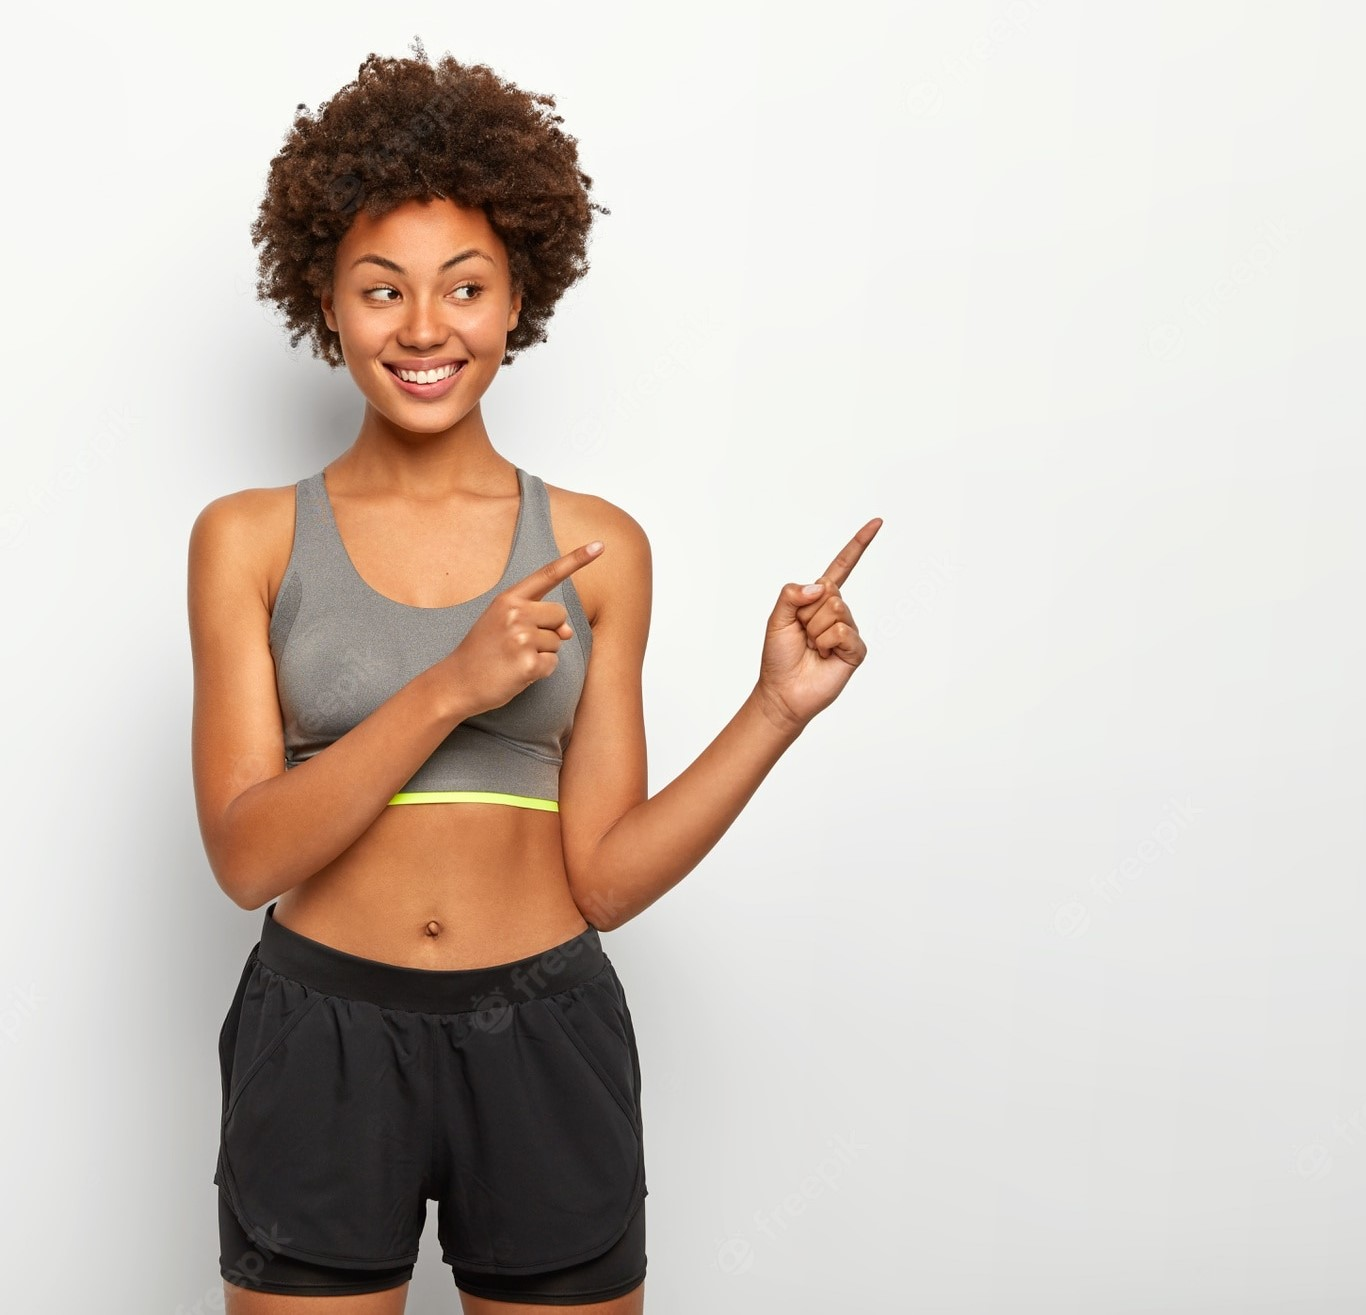
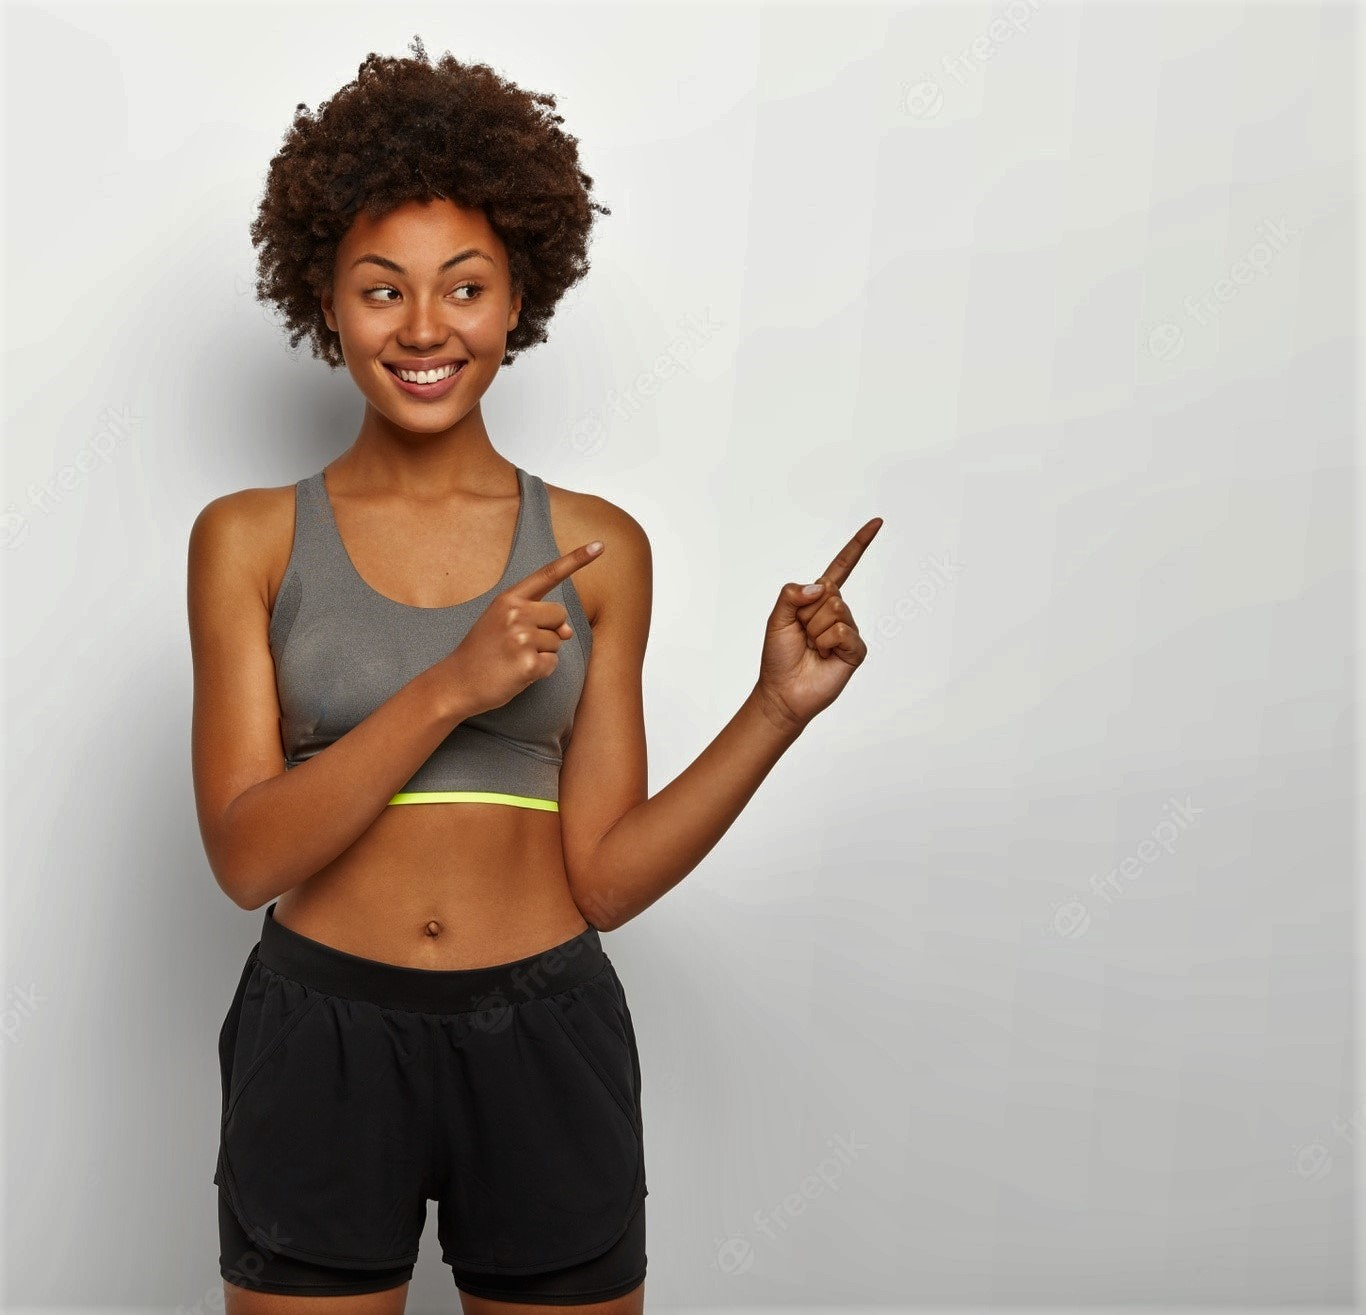
push

diff --git a/lib/widgets.dart b/lib/widgets.dart
@@ -238,7 +238,10 @@ mainComponentTraining(
       padding: kDefaultPadding,
       decoration: BoxDecoration(
           borderRadius: regularBorderRadius,
-          image: DecorationImage(image: AssetImage(imgDir), fit: BoxFit.cover)),
+          image: DecorationImage(
+              image: AssetImage(imgDir),
+              fit: BoxFit.cover,
+              filterQuality: FilterQuality.high)),
       child: Column(
           mainAxisAlignment: MainAxisAlignment.end,
           crossAxisAlignment: CrossAxisAlignment.start,

diff --git a/lib/mainscreen/warmup_details_screen.dart b/lib/mainscreen/warmup_details_screen.dart
@@ -16,7 +16,7 @@ class WarmUpScreen extends StatelessWidget {
             height: Get.mediaQuery.size.height,
             decoration: const BoxDecoration(
                 image: DecorationImage(
-                    image: AssetImage('assets/k.jpg'), fit: BoxFit.cover)),
+                    image: AssetImage('assets/m.jpg'), fit: BoxFit.cover)),
             child: Padding(
               padding: EdgeInsets.symmetric(horizontal: 20.w, vertical: 50.h),
               child: Row(

diff --git a/lib/mainscreen/homepage.dart b/lib/mainscreen/homepage.dart
@@ -67,7 +67,7 @@ class _HomePageState extends State<HomePage> with TickerProviderStateMixin {
               ),
               sizedHeight(20),
               mainComponentTraining('Day 01 - Warm Up', '07:00 - 08:00 AM',
-                  'assets/k.jpg', () => Get.to(const WarmUpScreen())),
+                  'assets/m.jpg', () => Get.to(const WarmUpScreen())),
               sizedHeight(30),
               Row(
                 mainAxisAlignment: MainAxisAlignment.spaceBetween,
